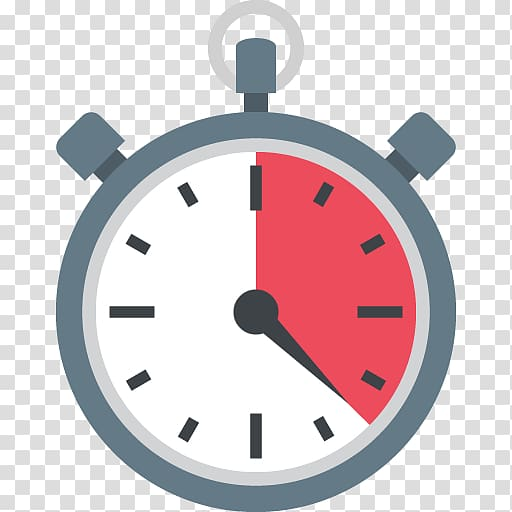
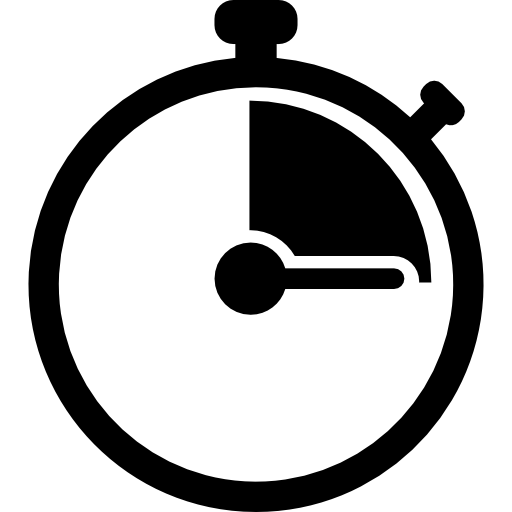
Added image design, exit button and timer score (End of October 22)

diff --git a/sketch.js b/sketch.js
@@ -14,18 +14,28 @@ let chanceOfHavingMine;  //set the chance of having a mine
 let state ="mainMenu"; 
 let mode;
 let totalMine;
-let backgroundImage;
-let flagImage;
 let timeWhenBlown;
 let runCount;
 let beginTime;
 let timeOnTimer;
 let userFinishTime;
-
+//Images
+let backgroundImage;
+let flagImage;
+let mineImage;
+let wordImage;
+let titleMineImage;
+let timerImage;
+let exitImage;
 
 function preload() {
   backgroundImage = loadImage("assets/background.jpg");
   flagImage = loadImage("assets/flag.png");
+  mineImage = loadImage("assets/spike.png");
+  wordImage = loadImage("assets/word.png");
+  titleMineImage = loadImage("assets/titlemine.png");
+  timerImage = loadImage ("assets/timer.png");
+  exitImage = loadImage("assets/exit.png");
 }
 
 // sets up the game
@@ -40,7 +50,11 @@ function draw() {
   background(220);
   image(backgroundImage,0,0,width,height);
   if (state === "mainMenu"){
+    image(wordImage,width/2 -(width*2/5)/2, height/4,width*2/5, height/4);
+    image(titleMineImage,width/3 -height/3.5, height/4,height/5, height/5);
+    image(titleMineImage,width/2 + height/2.18, height/4,height/5, height/5);
     userChooseLevel();
+    setting();
   }
   if (state ==="easy"|| state === "medium" || state === "hard" || state === "blowAllMine"){
     if (timesRun === 0){
@@ -52,6 +66,7 @@ function draw() {
     allMine();
     checkWin();
     timesRun = timesRun + 1;
+    setting();
   }
   if (state === "blowAllMine"){
     
@@ -136,36 +151,36 @@ function userChooseLevel() {
 
 function EndGameButton(){
   fill(255);
-  rect(width/2 -100,height/2 + 50,200,50);
+  rect(width*19/24,height/2 + 50,200,50);
   fill(0);
   textSize(25);
   textAlign(CENTER, CENTER);
-  text("Main Menu", width/2 -100, height/2 + 50,200,50);
+  text("Main Menu", width*19/24, height/2 + 50,200,50);
 
-  if (mouseX > width/2 -100 && mouseX < width/2 + 100 && mouseY > height/2 + 50 && mouseY < height/2 + 100){
+  if (mouseX > width*19/24 && mouseX < width*19/24 + 200 && mouseY > height/2 + 50 && mouseY < height/2 + 100){
     fill(255);
    
-    rect(width/2 - 120,height/2 + 30,240,90);
+    rect(width*19/24 - 20,height/2 + 30,240,90);
     fill(0);
     textSize(35);
     textAlign(CENTER, CENTER);
-    text("Main Menu",width/2 - 120,height/2 + 30,240,90);
+    text("Main Menu",width*19/24 - 20,height/2 + 30,240,90);
   }
 
   fill(255);
-  rect(width/2 -100, height/2 + 180 ,200,50);
+  rect(width*19/24, height/2 + 180 ,200,50);
   fill(0);
   textSize(25);
   textAlign(CENTER, CENTER);
-  text("Try Again", width/2 -100, height/2 + 180,200,50);
+  text("Try Again", width*19/24, height/2 + 180,200,50);
 
-  if (mouseX > width/2 -100 && mouseX < width/2 + 100 && mouseY > height/2 + 180 && mouseY < height/2 + 230){
+  if (mouseX > width*19/24 && mouseX < width*19/24 + 200 && mouseY > height/2 + 180 && mouseY < height/2 + 230){
     fill(255);
-    rect(width/2 - 120, height/2 + 160,240,90);
+    rect(width*19/24 - 20, height/2 + 160,240,90);
     fill(0);
     textSize(35);
     textAlign(CENTER, CENTER);
-    text("Try Again",width/2 - 120, height/2 + 160,240,90);
+    text("Try Again",width*19/24 - 20 , height/2 + 160,240,90);
   }
 }
 
@@ -201,11 +216,12 @@ function allMine(){
   fill(0);
   textSize(35);
   text(totalMine, width*9.3/10,height/10,width/20,height/15);
-  image(flagImage,width*9.3/10 - 60 ,height/10,width/25  ,height/15);
+  image(flagImage,width*9.3/10 - 60 ,height/10,width/25,height/15);
 }
 
 // determine which side of the mouse is clicked
 function mousePressed() {
+ 
   let spaceX = floor((mouseX - (width/2- cellSize*(GRIDSIZE/2)))/cellSize);
   let spaceY = floor((mouseY  - (height/2- cellSize*(GRIDSIZE/2)))/cellSize);
   
@@ -234,7 +250,10 @@ function mousePressed() {
   }
 
   else if (state === "easy"|| state ==="medium"|| state ==="hard"){
-    if (mouseButton === LEFT){
+    if (mouseButton === LEFT && mouseX > width/15 && mouseX< width/15 + 30 &&  mouseY>height*9/10 && mouseY < height*9/10+ 30 ){
+      state = "mainMenu";
+    }
+    else if (mouseButton === LEFT){
       digBomb(spaceX,spaceY);
 
     }
@@ -244,14 +263,16 @@ function mousePressed() {
     
       
     }
+    
+    
   }
 
   else if (state === "gameOver" || state === "userWin"){
-    if (mouseButton === LEFT && mouseX > width/2 -100 && mouseX < width/2 + 100 && mouseY > height/2 + 50 && mouseY < height/2 + 100){
+    if (mouseButton === LEFT && mouseX > width*19/24 && mouseX < width*19/24 + 200 && mouseY > height/2 + 50 && mouseY < height/2 + 100){
       state = "mainMenu";
     }
     
-    if (mouseButton === LEFT && mouseX > width/2 -100 && mouseX < width/2 + 100 && mouseY > height/2 + 180 && mouseY < height/2 + 230){
+    if (mouseButton === LEFT && mouseX > width*19/24 && mouseX < width*19/24 + 200 && mouseY > height/2 + 180 && mouseY < height/2 + 230){
       beginTime = millis();
       state = mode;
       timesRun = 0;
@@ -262,7 +283,8 @@ function mousePressed() {
 
 function timer(){
   timeOnTimer = millis() - beginTime;
-  text(ceil(timeOnTimer/1000)- 1,200,200,150,150);
+  text(ceil(timeOnTimer/1000)- 1,width/10 + 60,height/10 +5,50,50);
+  image(timerImage,width/10,height/10,50,50);
 }
 
 //when left mouse is clicked, send signal that player decides to dig this square
@@ -275,13 +297,13 @@ function digBomb(spaceX, spaceY) {
     }
     
     else if (grid[spaceY][spaceX].isMine === true && grid[spaceY][spaceX].status === "Not Clicked" && grid[spaceY][spaceX].flag === false) {
-      grid[spaceY][spaceX].status = "blow up";
-    }
-  }
-}
-
-//when right mouse is clicked, sends signal that this square should be flagged
-function flagBomb(spaceX, spaceY) {
+      grid[spaceY][spaceX].status  = "blow up";
+    } 
+  } 
+} 
+ 
+//when right mouse is clicked, se nds signal that this square should be flagged
+function flagBomb(spaceX, spaceY)  {
   if (spaceX >= 0 && spaceX < GRIDSIZE && spaceY >= 0 && spaceY < GRIDSIZE) {
     
     if (grid[spaceY][spaceX].status === "Not Clicked" && grid[spaceY][spaceX].flag === false) {
@@ -427,7 +449,12 @@ function showMap(){
   }
 }
 
-  
+function setting(){
+  if (state === "easy" || state === "medium" || state === "hard") {
+    image(exitImage,width/15, height*9/10,30,30);
+  }
+
+}
 
 
 //"signal Center of the Grid" Control all color on grid
@@ -452,6 +479,7 @@ function displayGrid() {
       else if (grid[y][x].flag === true ){
         fill("orange");
         rect(x*cellSize + windowWidth/2 - cellSize*(GRIDSIZE/2), y*cellSize+ windowHeight/2 - cellSize*(GRIDSIZE/2), cellSize, cellSize);
+        image(flagImage,x*cellSize + windowWidth/2 - cellSize*(GRIDSIZE/2), y*cellSize+ windowHeight/2 - cellSize*(GRIDSIZE/2), cellSize, cellSize);
       }
       
       // change square to red if bomb
@@ -459,6 +487,7 @@ function displayGrid() {
         
         fill("red");
         rect(x*cellSize + windowWidth/2 - cellSize*(GRIDSIZE/2), y*cellSize+ windowHeight/2 - cellSize*(GRIDSIZE/2), cellSize, cellSize);
+        image(mineImage,x*cellSize + windowWidth/2 - cellSize*(GRIDSIZE/2), y*cellSize+ windowHeight/2 - cellSize*(GRIDSIZE/2), cellSize, cellSize);
         state = "blowAllMine";
         
         
@@ -510,7 +539,9 @@ function userTime(){
   fill("black");
   console.log(width/20,height/15);
   textSize(40);
-  text(ceil(userFinishTime/1000),width/10,height/15,50,50);
+  text(ceil(userFinishTime/1000),width/10 + 60,height/10 +5,50,50);
+  image(timerImage,width/10,height/10,50,50);
+  text("Your Time:" +" "+ ceil(userFinishTime/1000), width*1.3/10,height*7/10);
 }
 
 // if bomb is pressed, find all other bomb automactically and explode them
@@ -520,6 +551,7 @@ function gameover(){
       if( grid[y][x].isMine === true ){
         fill("red");
         rect(x*cellSize + windowWidth/2 - cellSize*(GRIDSIZE/2), y*cellSize+ windowHeight/2 - cellSize*(GRIDSIZE/2), cellSize, cellSize);
+        image(mineImage,x*cellSize + windowWidth/2 - cellSize*(GRIDSIZE/2), y*cellSize+ windowHeight/2 - cellSize*(GRIDSIZE/2), cellSize, cellSize);
       }
     }
   }

diff --git a/proposal.md b/proposal.md
@@ -44,6 +44,7 @@ My project is MineSweeper - A classic window desktop game. In this project, I ho
     - Instruction
     - Leave Game
     - Hints
+    
 - Coins Currency
     - Getting Coins when the user finishes a level
     - Buy different themes with coins
